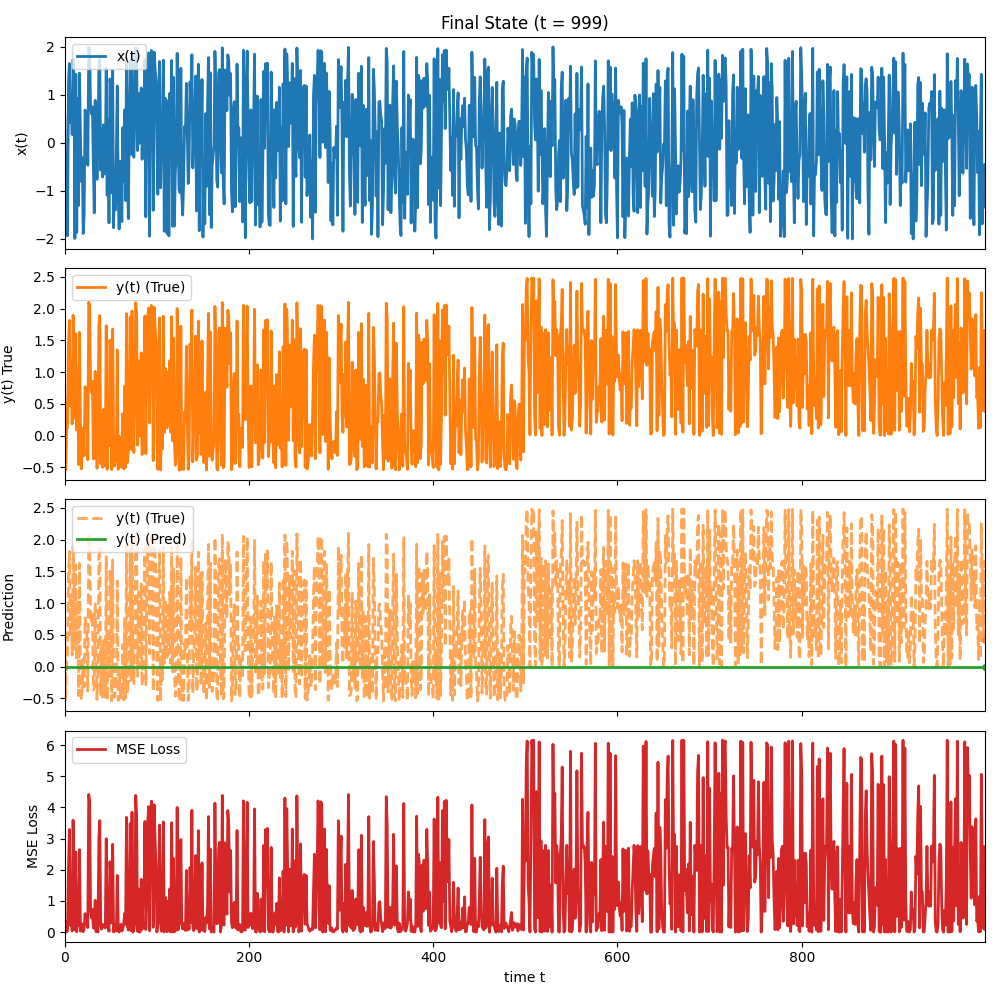
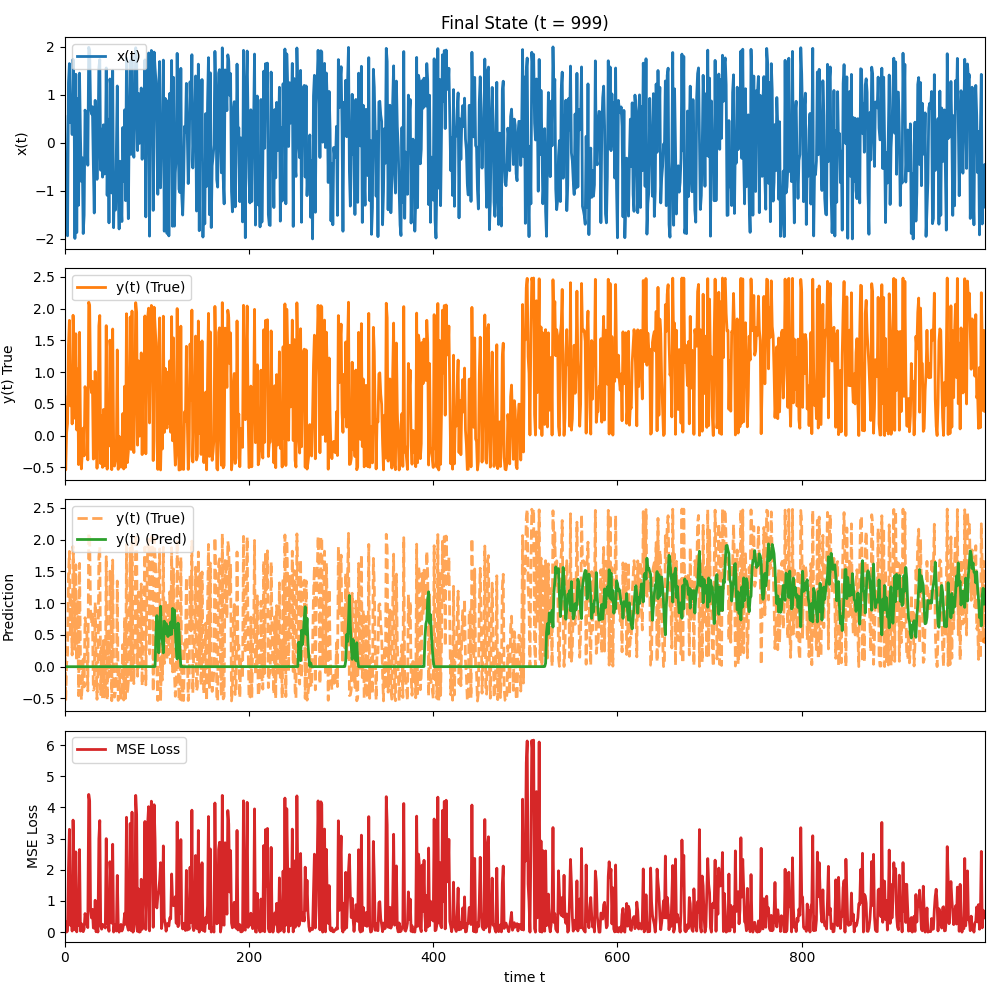
something ran

diff --git a/demos/function_tracking/mlp_train.py b/demos/function_tracking/mlp_train.py
@@ -123,7 +123,7 @@ t_series, x_series, y_series = build_time_series(NUM_SAMPLES)
 #------------------------------- MODEL -----------------------------
 config = {
     #Model architecture
-    'layer_sizes': [1, 20, 1],
+    'layer_sizes': [1, 128, 1],
     # 'model_precision': 'ap_fixed<16, 6, AP_RND_CONV, AP_SAT>',
     # 'input_precision': 'ap_fixed<16, 6, AP_RND_CONV, AP_SAT>',
     # 'output_precision': 'ap_fixed<16, 6, AP_RND_CONV, AP_SAT>',
@@ -134,7 +134,7 @@ config = {
     
     #Others
     'model_name': 'mlp_model',
-    'learning_rate': 1,
+    'learning_rate': 0.3,
 
     #Hardware specification
     'fpga_part': 'xcvu13p-flga2577-2-e',

diff --git a/demos/function_tracking/mlp_model/firmware/components.h b/demos/function_tracking/mlp_model/firmware/components.h
@@ -5,17 +5,14 @@
 #include "parameters.h" // Assuming weight_t and LR are defined here
 #include "defines.h"    // Assuming any other shared constants are here
 
-// --- Activation Function ---
 static inline weight_t relu(weight_t z) {
     #pragma HLS INLINE
-    return (z > weight_t(0)) ? z : weight_t(0);
+    return (z > weight_t(0)) ? z : weight_t(0.01f)*z;
 }
-
 static inline weight_t relu_grad(weight_t z) {
     #pragma HLS INLINE
-    return (z > weight_t(0)) ? weight_t(1) : weight_t(0);
+    return (z > weight_t(0)) ? weight_t(1) : weight_t(0.01f);
 }
-
 
 template<int IN_DIM, int OUT_DIM>
 inline void forward_layer(

diff --git a/src/templates/mlp/components.h b/src/templates/mlp/components.h
@@ -5,17 +5,14 @@
 #include "parameters.h" // Assuming weight_t and LR are defined here
 #include "defines.h"    // Assuming any other shared constants are here
 
-// --- Activation Function ---
 static inline weight_t relu(weight_t z) {
     #pragma HLS INLINE
-    return (z > weight_t(0)) ? z : weight_t(0);
+    return (z > weight_t(0)) ? z : weight_t(0.01f)*z;
 }
-
 static inline weight_t relu_grad(weight_t z) {
     #pragma HLS INLINE
-    return (z > weight_t(0)) ? weight_t(1) : weight_t(0);
+    return (z > weight_t(0)) ? weight_t(1) : weight_t(0.01f);
 }
-
 
 template<int IN_DIM, int OUT_DIM>
 inline void forward_layer(

diff --git a/demos/function_tracking/mlp_model/firmware/defines.h b/demos/function_tracking/mlp_model/firmware/defines.h
@@ -5,7 +5,7 @@
 
 // MODEL ARCHITECTURE
 #define INPUT_DIM 1
-#define H1 20
+#define H1 128
 #define OUTPUT_DIM 1
 
 // QUANTIZATION
@@ -14,6 +14,6 @@ typedef float input_t;
 typedef float output_t;
 
 // LEARNING RATE
-static const weight_t LR = weight_t(1);
+static const weight_t LR = weight_t(0.3);
 
 #endif
